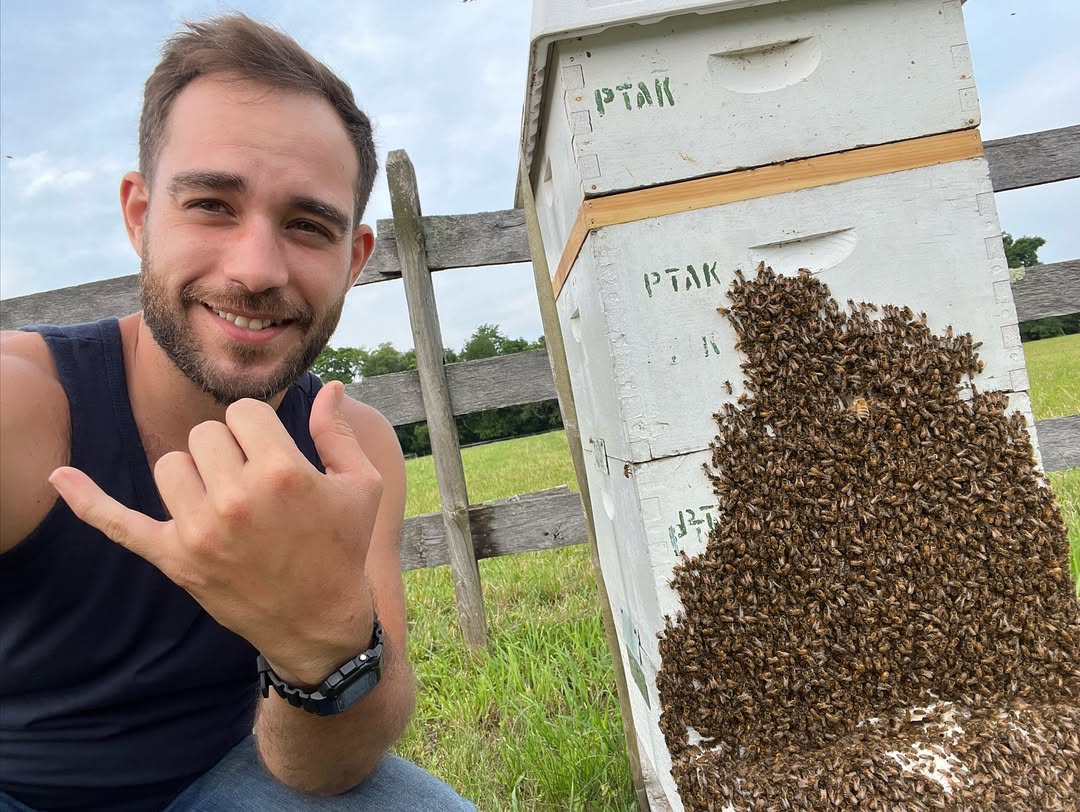
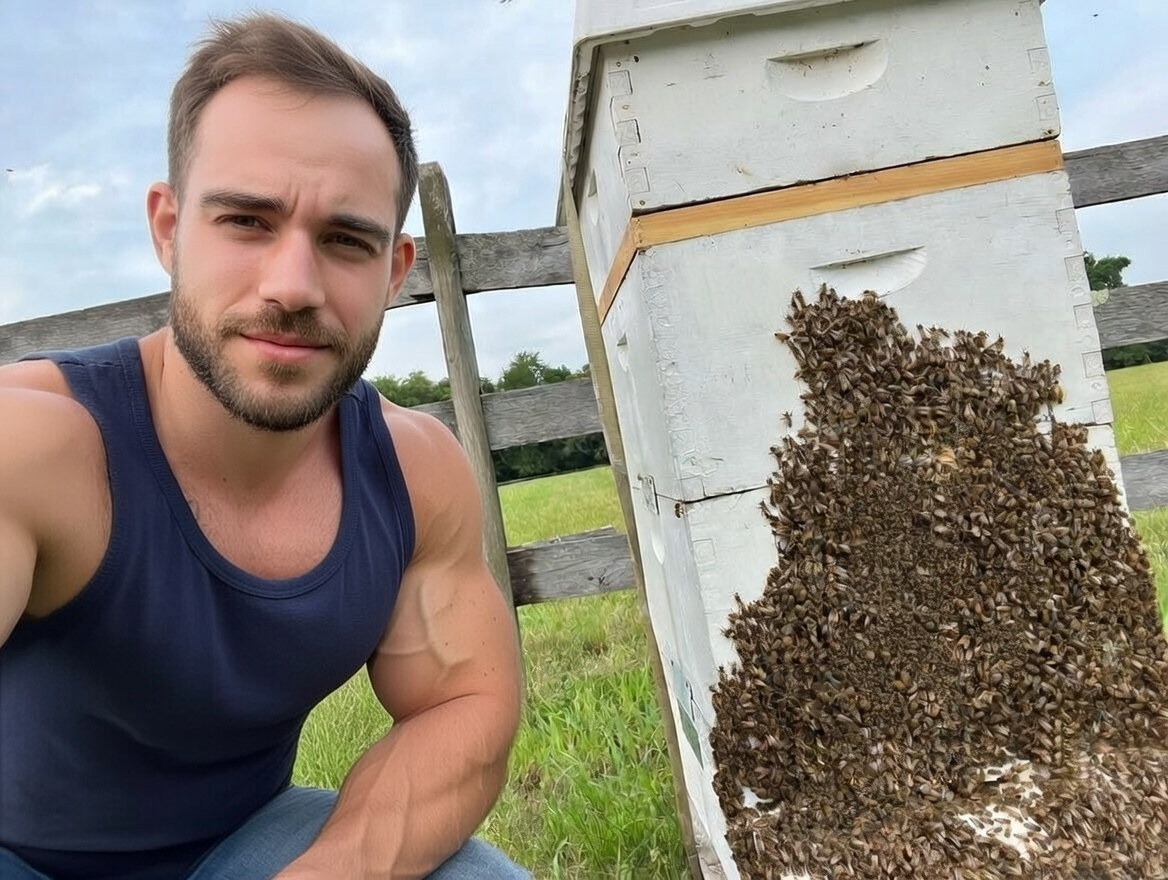
Update site branding and footer details
- Change tagline to "The Gold Standard Honey"
- Update "100% Monroe" to "100% New Jersey"
- Change location to Manalapan Township
- Update copyright year to 2023

diff --git a/index.html b/index.html
@@ -67,7 +67,7 @@
                 <img src="assets/logo.png" alt="Bogabee Apiaries Logo" class="w-36 md:w-80 mb-4 md:mb-8 drop-shadow-2xl float-animation">
             </a>
             
-            <h1 class="fluid-2xl md:text-7xl text-white mb-3 md:mb-6 italic leading-tight">Monroe's Gold, <br> Captured in a Jar.</h1>
+            <h1 class="fluid-2xl md:text-7xl text-white mb-3 md:mb-6 italic leading-tight">The Gold Standard Honey</h1>
             <p class="fluid-sm md:text-xl text-slate-100 max-w-xs md:max-w-xl mx-auto font-light leading-relaxed opacity-90">
                 Experience the raw, unfiltered essence of our local seasons. Small-batch honey, harvested with heart.
             </p>
@@ -88,7 +88,7 @@
                 <div class="w-10 h-10 md:w-24 md:h-24 bg-amber-50 rounded-full flex items-center justify-center mb-2 md:mb-8 transition-all duration-500 group-hover:bg-amber-100 group-hover:scale-110 shadow-sm group-hover:shadow-md">
                     <svg class="w-5 h-5 md:w-12 md:h-12 text-amber-600" fill="none" stroke="currentColor" viewBox="0 0 24 24"><path stroke-linecap="round" stroke-linejoin="round" stroke-width="2" d="M17.657 16.657L13.414 20.9a1.998 1.998 0 01-2.827 0l-4.244-4.243a8 8 0 1111.314 0z"></path></svg>
                 </div>
-                <h3 class="font-bold text-slate-900 uppercase tracking-[0.1em] md:tracking-[0.2em] fluid-sm md:text-sm mb-1 md:mb-4">100% Monroe</h3>
+                <h3 class="font-bold text-slate-900 uppercase tracking-[0.1em] md:tracking-[0.2em] fluid-sm md:text-sm mb-1 md:mb-4">100% New Jersey</h3>
                 <p class="fluid-xs md:text-xs text-slate-500 uppercase tracking-widest leading-tight">Local Jersey <br>Wildflowers</p>
             </div>
             <div class="flex flex-col items-center group">
@@ -190,10 +190,10 @@
                     @bogabee_apiaries
                 </a>
                 <span class="hidden md:block text-slate-700">|</span>
-                <span class="text-slate-300">Monroe Township, NJ</span>
+                <span class="text-slate-300">Manalapan Township, NJ</span>
             </div>
             <div class="pt-8 border-t border-white/5">
-                <p class="text-slate-500 text-sm">© 2025 Bogabee Apiaries</p>
+                <p class="text-slate-500 text-sm">© 2023 Bogabee Apiaries</p>
             </div>
         </div>
     </footer>
